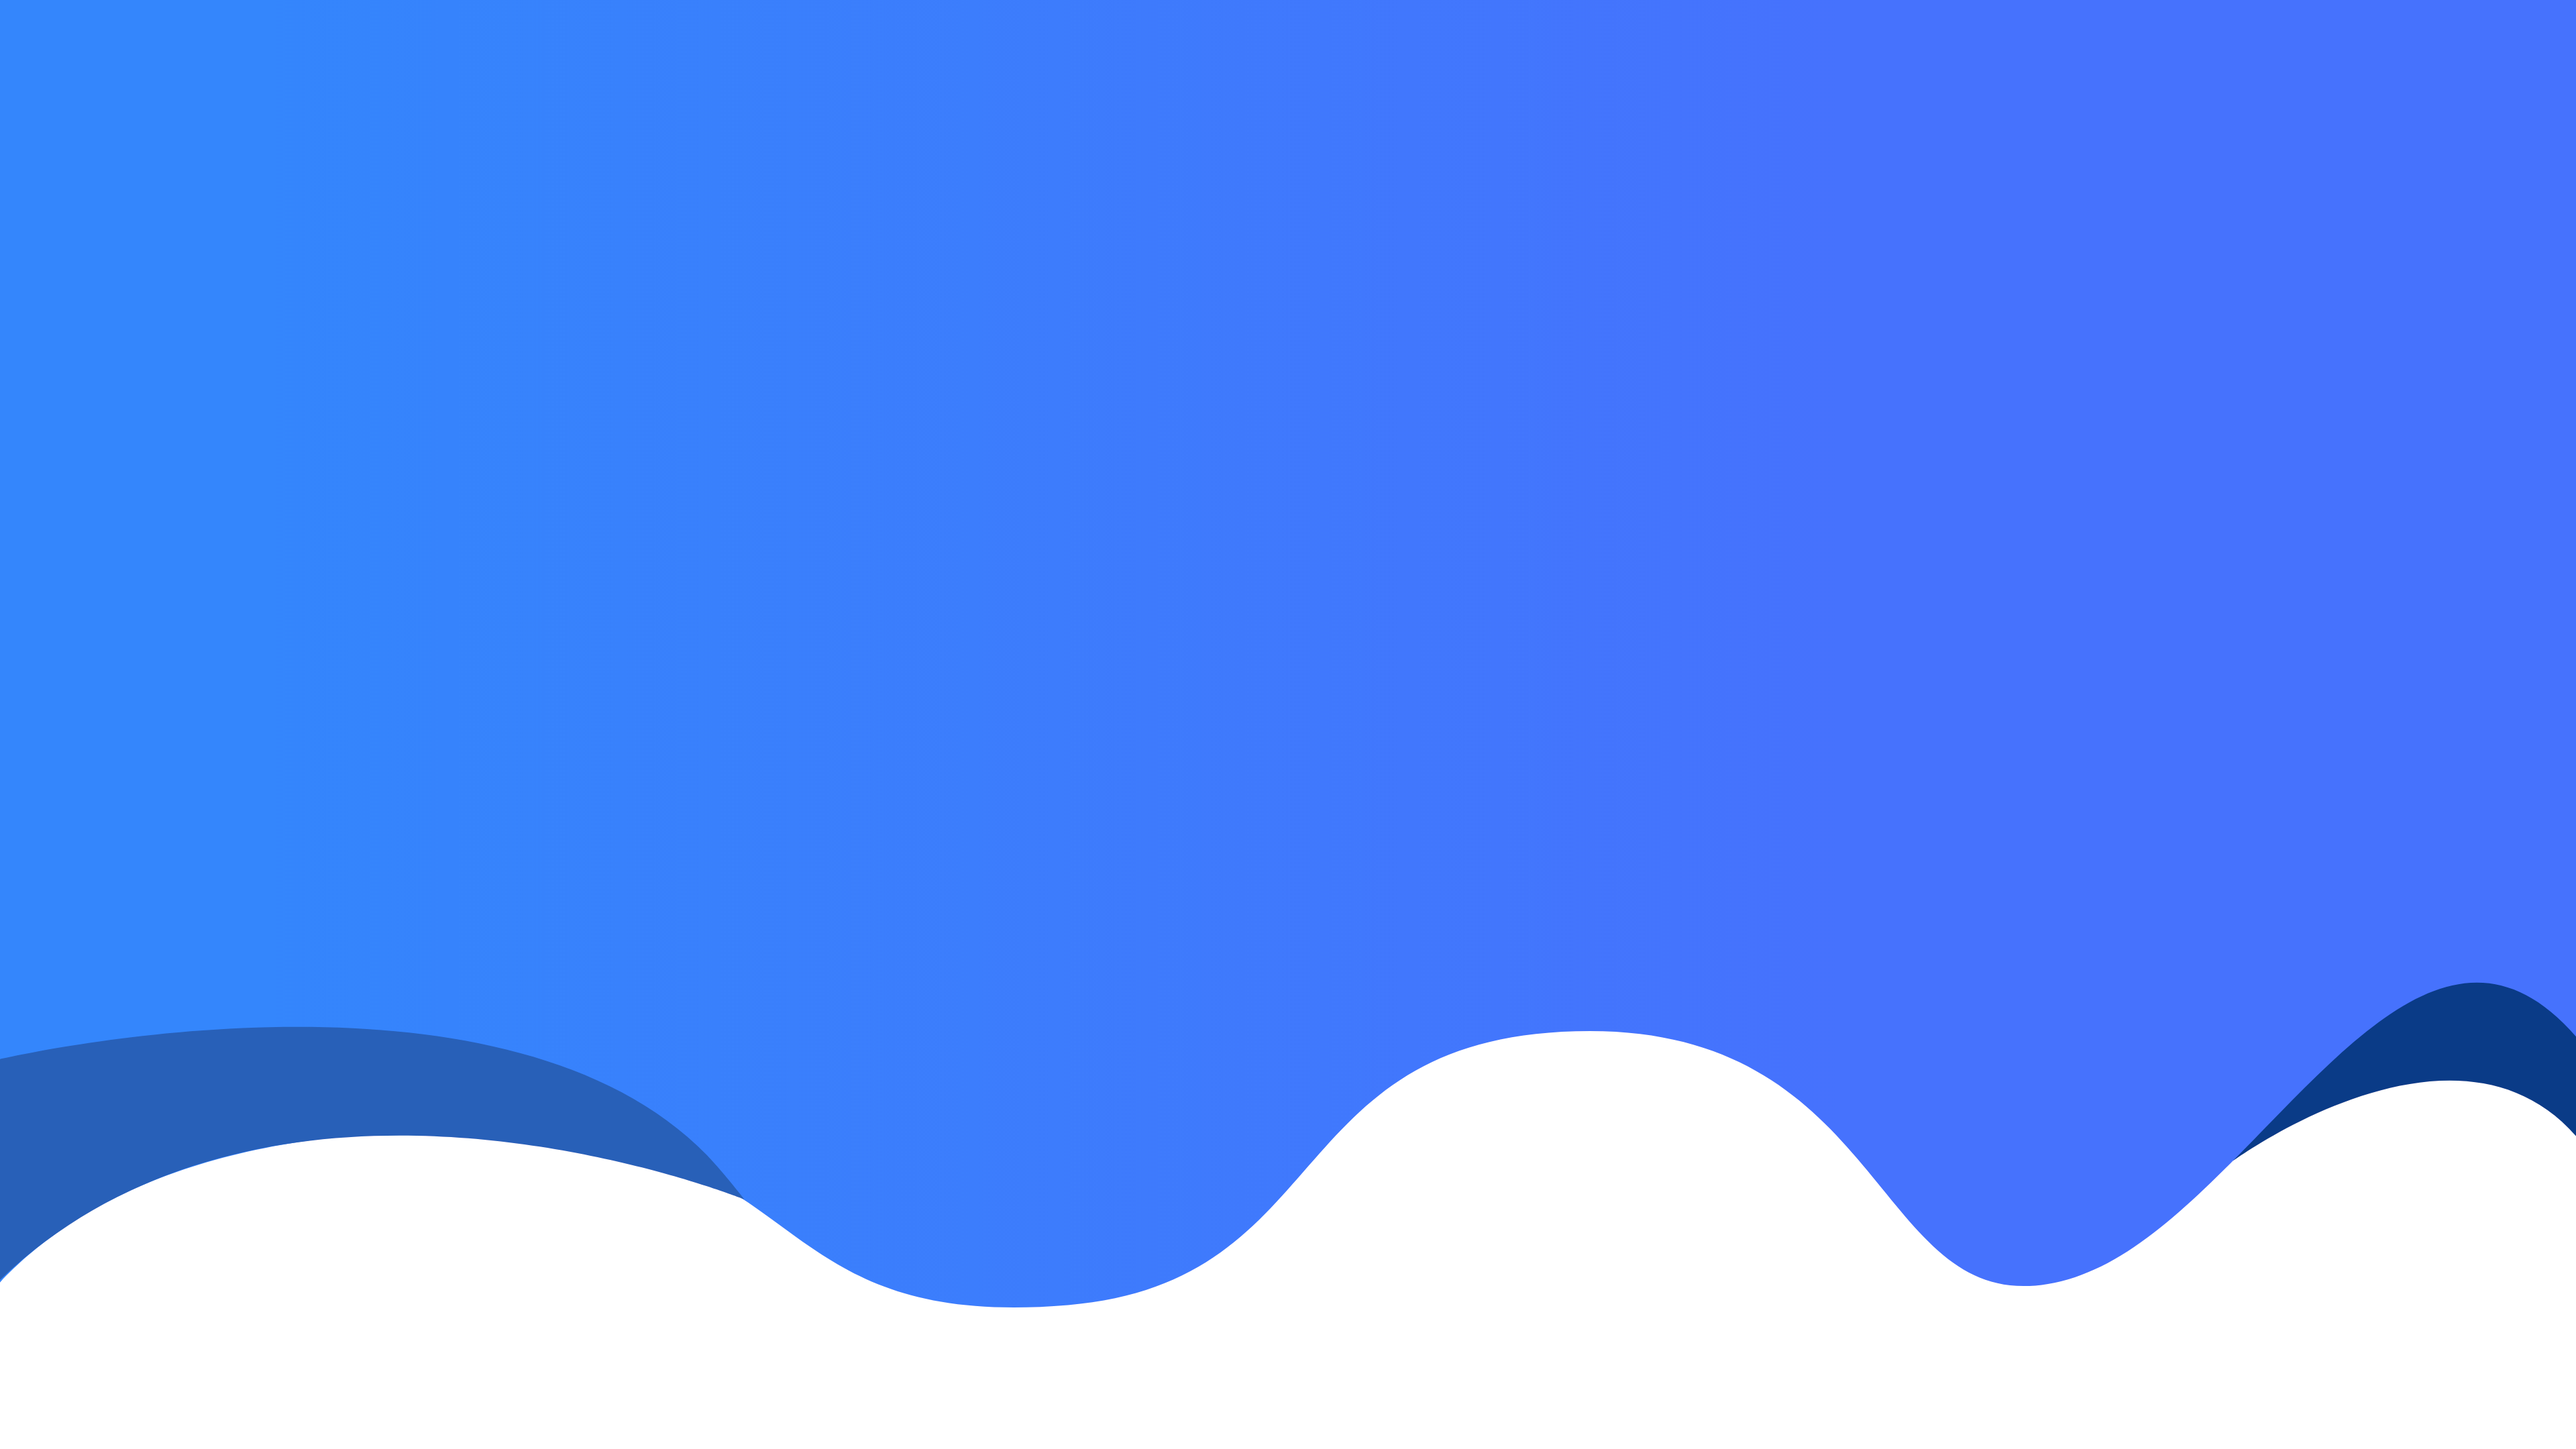
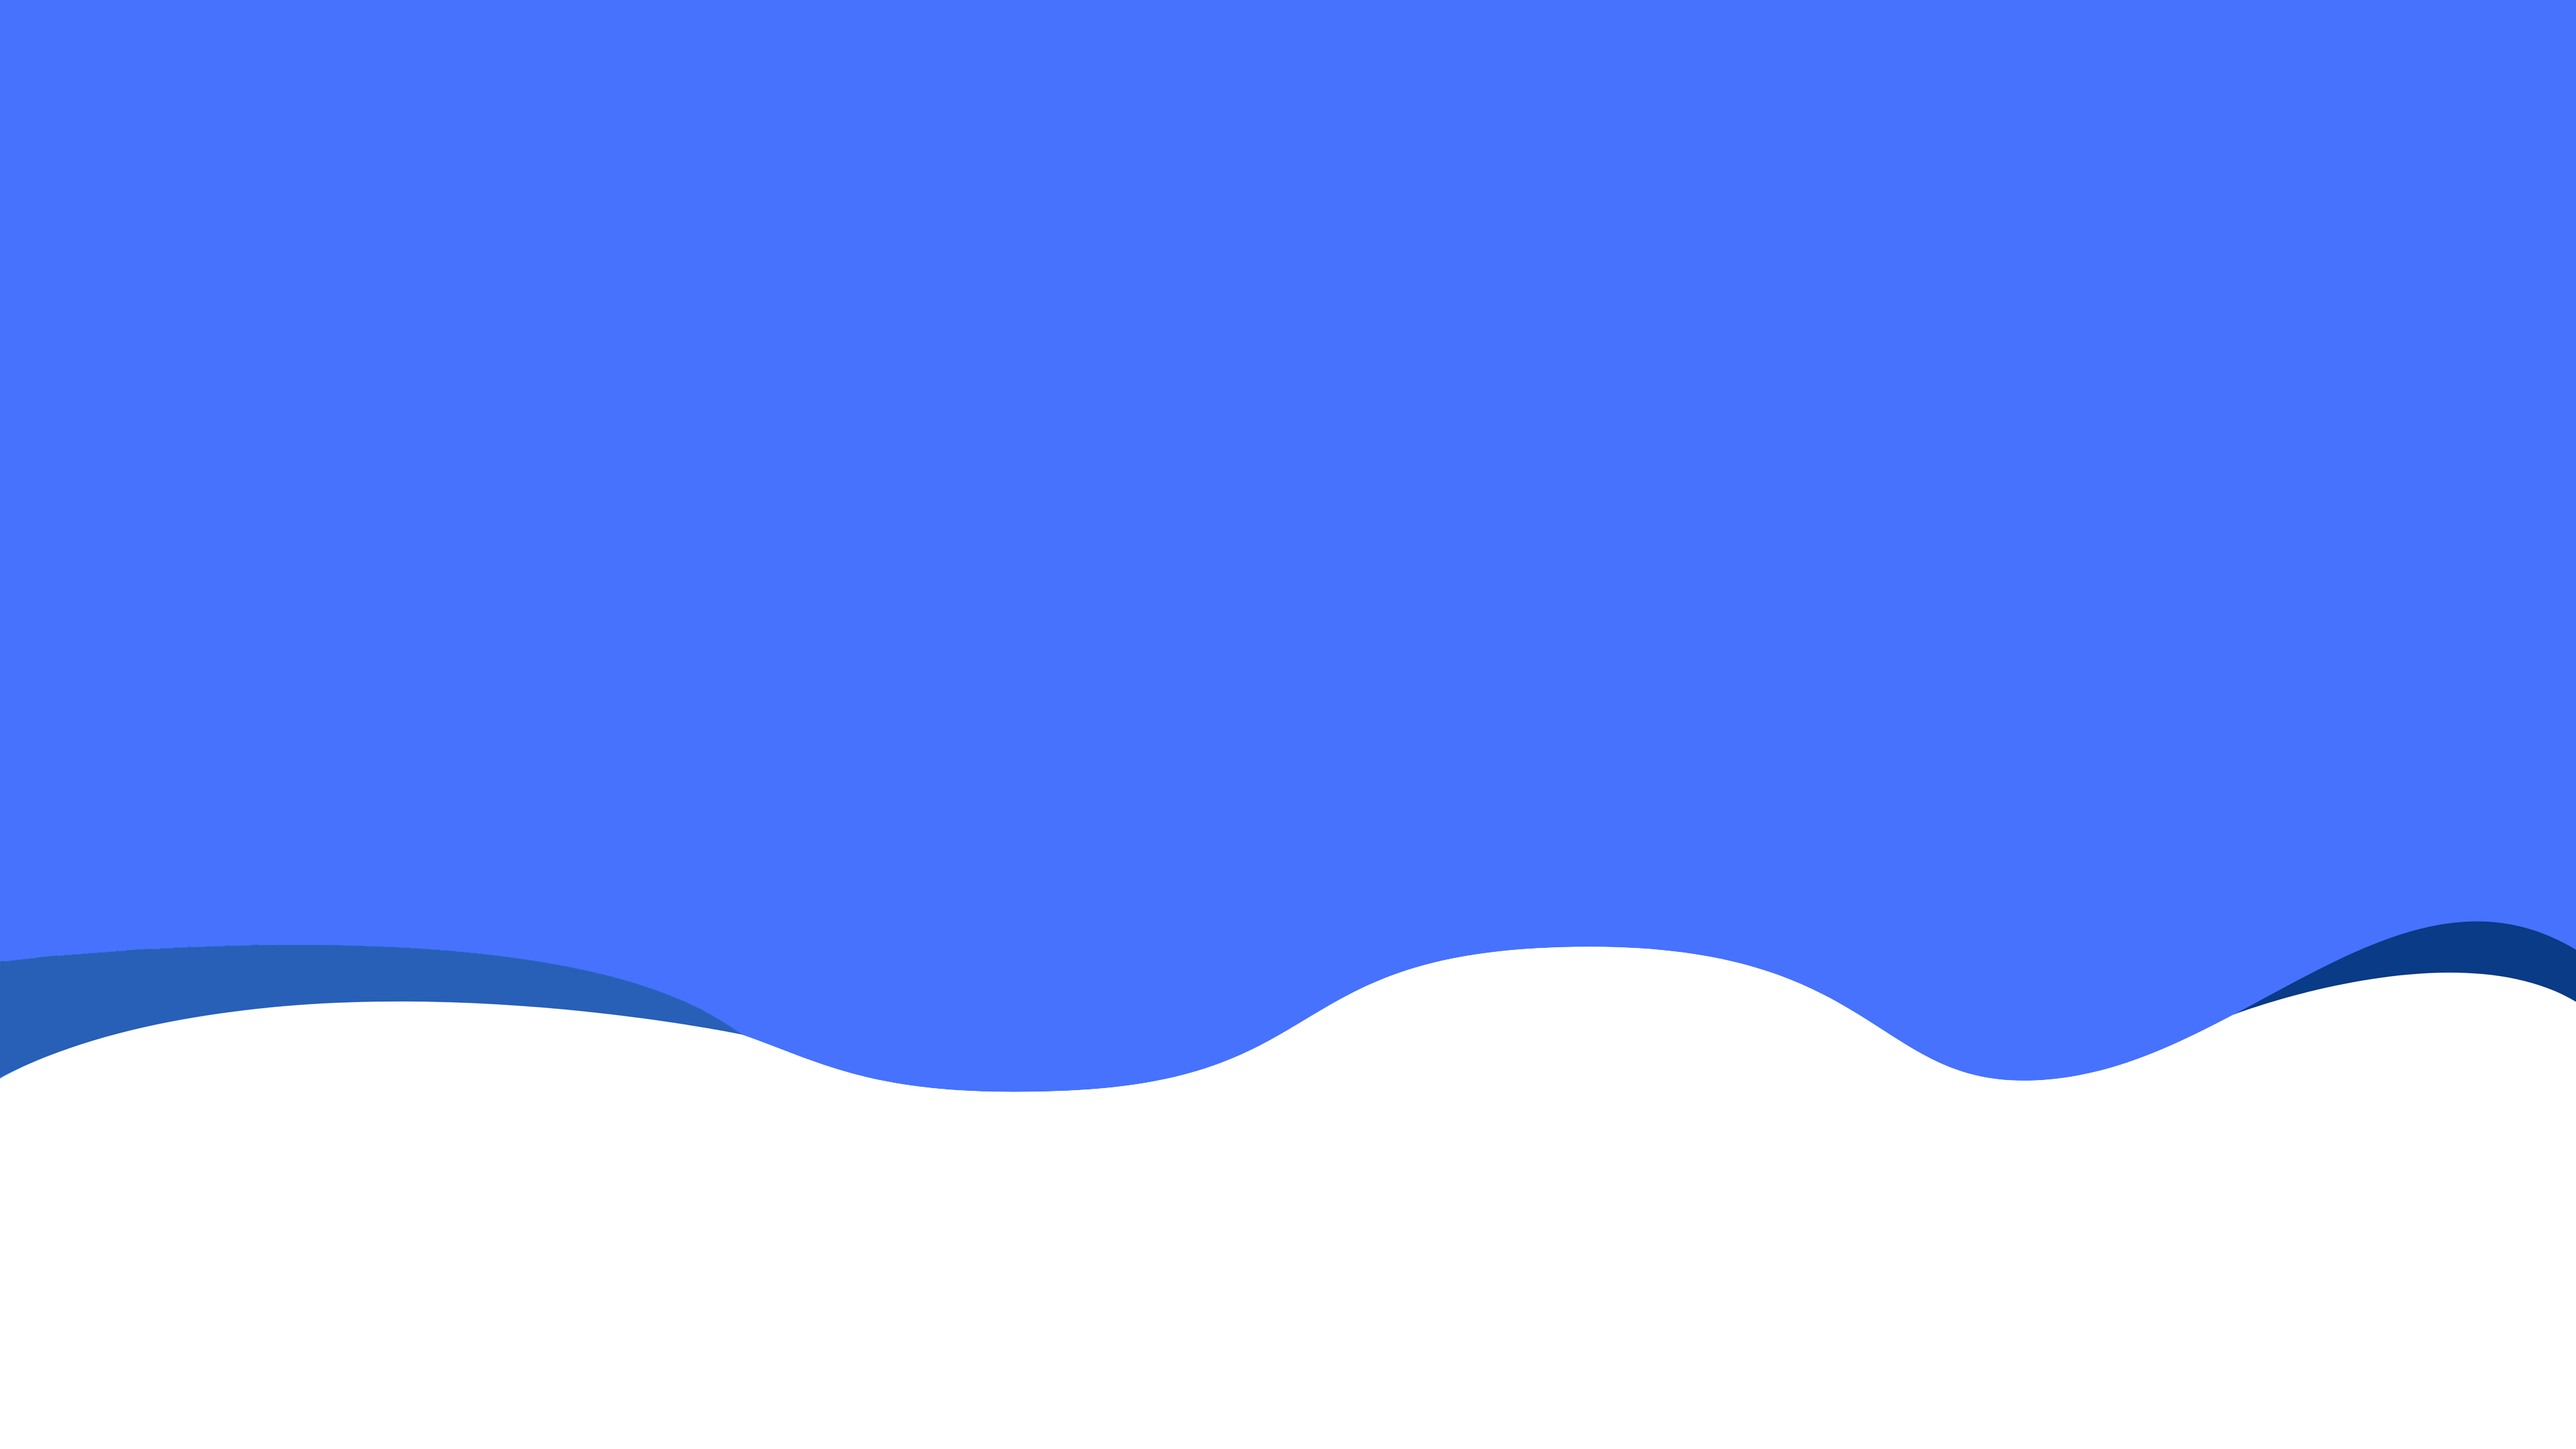
update website

Changed region(s): [[0.0, 0.6204, 1.0, 0.8995]]

diff --git a/website/index.html b/website/index.html
@@ -18,48 +18,50 @@
 </head>
 <body>
   <!-- Main Section -->
-  <section id="main">
+  
 
-    <div class="container">
+    <!--<div class="container">-->
       <!-- Navbar Here -->
-      <nav class="navbar navbar-expand-md navbar-dark bg-transparent pt-5">
-        <img src="./img/LogoEscrita.png" class="logo" width="200" alt="logo">
+      <section id = "menu">
+        <nav  class="navbar navbar-expand-xl navbar-dark pt-5"> 
+          <img onclick="location.href = '#main'" src="./img/LogoEscrita.png" class="logo" width="200" alt="logo">
+          <button class="navbar-toggler" type="button" data-toggle="collapse" data-target="#navbarNav" aria-controls="navbarNav" aria-expanded="false" aria-label="toggle navigation">
+            <span class="navbar-toggler-icon"></span>
+          </button>
+  
+          <div class="collapse navbar-collapse" id="navbarNav">
+            <ul class="navbar-nav ml-auto">
+              <li class="nav-item">
+                <a href="#main" class="nav-link text-white">Home</a>
+              </li>
+              <li class="nav-item dropdown">
+                <a class="nav-link dropdown-toggle  text-white" href="#" id="navbarDropdown" data-toggle="dropdown">Atividades</a>
+                <div class="dropdown-menu" aria-labelledby="navbarDropdown">
+                  <a class="dropdown-item" href="#">Minicursos</a>
+                  <a class="dropdown-item" href="#">Eventos</a>
+                </div>
+              </li>
+              <li class="nav-item dropdown">
+                <a class="nav-link dropdown-toggle  text-white" href="#" id="navbarDropdown" data-toggle="dropdown">Documentos</a>
+                <div class="dropdown-menu" aria-labelledby="navbarDropdown">
+                  <a class="dropdown-item" href="#">Planejamentos</a>
+                  <a class="dropdown-item" href="#">Relatório de atividades</a>
+                  <a class="dropdown-item" href="#">Certificados</a>
+                </div>
+              </li>
+              <li class="nav-item">
+                <a href="#overview" class="nav-link text-white">Sobre</a>
+              </li>
+            </ul>
+          </div>
+        </nav>
 
-        <button class="navbar-toggler" type="button" data-toggle="collapse" data-target="#navbarNav" aria-controls="navbarNav" aria-expanded="false" aria-label="toggle navigation">
-          <span class="navbar-toggler-icon"></span>
-        </button>
-
-        <div class="collapse navbar-collapse" id="navbarNav">
-          <ul class="navbar-nav ml-auto">
-            <li class="nav-item">
-              <a href="#main" class="nav-link text-white">Home</a>
-            </li>
-            <li class="nav-item dropdown">
-              <a class="nav-link dropdown-toggle  text-white" href="#" id="navbarDropdown" data-toggle="dropdown">Atividades</a>
-              <div class="dropdown-menu" aria-labelledby="navbarDropdown">
-                <a class="dropdown-item" href="#">Minicursos</a>
-                <a class="dropdown-item" href="#">Eventos</a>
-              </div>
-            </li>
-            <li class="nav-item dropdown">
-              <a class="nav-link dropdown-toggle  text-white" href="#" id="navbarDropdown" data-toggle="dropdown">Documentos</a>
-              <div class="dropdown-menu" aria-labelledby="navbarDropdown">
-                <a class="dropdown-item" href="#">Planejamentos</a>
-                <a class="dropdown-item" href="#">Relatório de atividades</a>
-                <a class="dropdown-item" href="#">Certificados</a>
-              </div>
-            </li>
-            <li class="nav-item">
-              <a href="#pricing" class="nav-link text-white">Sobre</a>
-            </li>
-          </ul>
-        </div>
-
-      </nav>
-    </div>
-
-    <div class="container">
-      <div class="row header-main">
+      </section>
+        
+    <!-- </div> -->
+    <section id="main">
+    <div class="container" style="padding-top: 0;">
+      <div class="row header-main" style="padding-top:0; margin: 0; ">
 
         <div class="col-md-6">
           <h1 class="header-info">Programa de Educação Tutorial Engenharia Eletrônica e de Telecomunicações</h1>
@@ -76,40 +78,12 @@
 
   </section>
 
-  <!--Atividades -->
-  <section id="overview">
-    <h2 class="titulo">Atividades</h2>
 
-    <div class="container-fluid">
-      <div class="row overview-row">
 
-        <div class="col-md-4 text-center">
-          <i class="fas fa-book overview-icon"></i>
-          <h3 class="overview-header">Ensino</h3>
-          <p class="info-width mx-auto">A área de ensino é focada em ensinar e transmitir conhecimento através de atividades, como minicursos e palestras.</p>
-        </div>
-
-        <div class="col-md-4 text-center">
-          <i class="fa fa-search overview-icon"></i>
-          <h3 class="overview-header">Pesquisa</h3>
-          <p class="info-width mx-auto">A área de pesquisa é focada em promover o desenvolvimento do senso crítico do aluno para áreas científicas.</p>
-        </div>
-
-        <div class="col-md-4 text-center">
-          <i class="fa fa-retweet overview-icon"></i>
-          <h3 class="overview-header">Extensão</h3>
-          <p class="info-width mx-auto">A área de extensão é focada em promover atividades beneficas para comunidade interna e externa.</p>
-        </div>
-
-      </div>
-    </div>
-  </section>
-
-  <!-- Avaliação -->
+  <!-- Atividades -->
   <section id="testimonials">
-    <h2 class="text-center text-white section-title">Avaliações</h2>
-
     <div class="container-fluid">
+      <h2 class="text-center text-white section-title">Atividades</h2>
       <div class="row">
 
         <!-- Carousel Here -->
@@ -151,8 +125,8 @@
   </section>
 
   <!-- preço-->
-  <section id="pricing">
-    <h2 class="text-center section-title pricing-title">Preço</h2>
+  <section id="minicursos">
+    <h2 class="text-center section-title pricing-title">Minicursos</h2>
 
     <div class="container">
       <div class="row">
@@ -194,6 +168,35 @@
     </div>
   </section>
 
+  <!--Sobre -->
+  <section id="overview">
+    <h2 class="text-center section-title sobre-title">Sobre</h2>
+
+    <div class="container-fluid">
+      <div class="row overview-row">
+
+        <div class="col-md-4 text-center">
+          <i class="fas fa-book overview-icon"></i>
+          <h3 class="overview-header">Ensino</h3>
+          <p class="info-width mx-auto">A área de ensino é focada em ensinar e transmitir conhecimento através de atividades, como minicursos e palestras.</p>
+        </div>
+
+        <div class="col-md-4 text-center">
+          <i class="fa fa-search overview-icon"></i>
+          <h3 class="overview-header">Pesquisa</h3>
+          <p class="info-width mx-auto">A área de pesquisa é focada em promover o desenvolvimento do senso crítico do aluno para áreas científicas.</p>
+        </div>
+
+        <div class="col-md-4 text-center">
+          <i class="fa fa-retweet overview-icon"></i>
+          <h3 class="overview-header">Extensão</h3>
+          <p class="info-width mx-auto">A área de extensão é focada em promover atividades beneficas para comunidade interna e externa.</p>
+        </div>
+
+      </div>
+    </div>
+  </section>
+
   <!-- Call to Action Section -->
   <section id="cta">
     <h1 class="text-center cta-text">Internet of things</h1>
@@ -214,5 +217,10 @@
   <script src="https://code.jquery.com/jquery-3.3.1.slim.min.js" integrity="sha384-q8i/X+965DzO0rT7abK41JStQIAqVgRVzpbzo5smXKp4YfRvH+8abtTE1Pi6jizo" crossorigin="anonymous"></script>
   <script src="https://cdnjs.cloudflare.com/ajax/libs/popper.js/1.14.6/umd/popper.min.js" integrity="sha384-wHAiFfRlMFy6i5SRaxvfOCifBUQy1xHdJ/yoi7FRNXMRBu5WHdZYu1hA6ZOblgut" crossorigin="anonymous"></script>
   <script src="https://stackpath.bootstrapcdn.com/bootstrap/4.2.1/js/bootstrap.min.js" integrity="sha384-B0UglyR+jN6CkvvICOB2joaf5I4l3gm9GU6Hc1og6Ls7i6U/mkkaduKaBhlAXv9k" crossorigin="anonymous"></script>
+  <script>
+    let menu = document.getElementById("navbar");
+    //menu.style.cssText += "position: fixed;";
+
+  </script>
 </body>
 </html>

diff --git a/website/style.css b/website/style.css
@@ -9,23 +9,37 @@ body {
 }
 
 /* Navigation */
-.logo {
-	margin-left: -10px;
-}
-.nav-item {
-	margin: 0 20px;
-}
 
+.nav-item {
+	margin: -5vh 20px 20px 0;
+}
+.logo {
+	margin: -5vh 0  20px 8%;
+	cursor: pointer;
+	align-items: center;
+}
+#menu{
+	height: 10%;
+	margin: 0 0 0 0;
+	z-index: 20;
+	width: 100%;
+	background-color: #1f73ff;
+	padding: 0;
+	position: fixed;
+	align-items: center;
+}
 /* Main Section */
+
 #main {
 	background: url("./img/background.png");
 	background-size: cover;
-	height: 110vh;
+	height: 100vh;
 }
 .header-main {
 	margin-top: 100px;
 }
 .header-info {
+	margin-top: 30%;
 	font-weight: 900;
 	font-size: 7vh;
 	color: rgb(255, 255, 255);
@@ -39,20 +53,25 @@ body {
 }
 
 .antena{
-	margin-top: 10px;
+	margin-top: 30%;
 	width: 40vh;
 	margin-left: 30vh;
 }
 
 .titulo{
+	margin: 0;
 	text-align: center;
-	margin-top:  20px;
 	font-weight: 500;
-	font-size: 40px
+	font-size: 40px;
 }
 
 /* Overview */
-
+#overview{
+	height: 100%;
+}
+.sobre-title{
+	margin-top: 5%;
+}
 .info-width {
 	width: 60%;
 	font-size: 1.3rem;
@@ -74,15 +93,18 @@ body {
 
 /* Testimonials */
 #testimonials {
-	background-color: #0335d8;
-	margin-top: 100px;
-	padding: 100px 0;
+	background-color: #410ada;
 }
 .carousel-item {
-	padding: 7% 15%;
+	width: 100vw;
+	height: 78vh;
+	padding: 0 20% 0 20%;
 }
 .carousel-item h3 {
+	text-align: center;
 	font-size: 2.5rem;
+	height: 90%;
+	background-color: aqua;
 }
 
 
